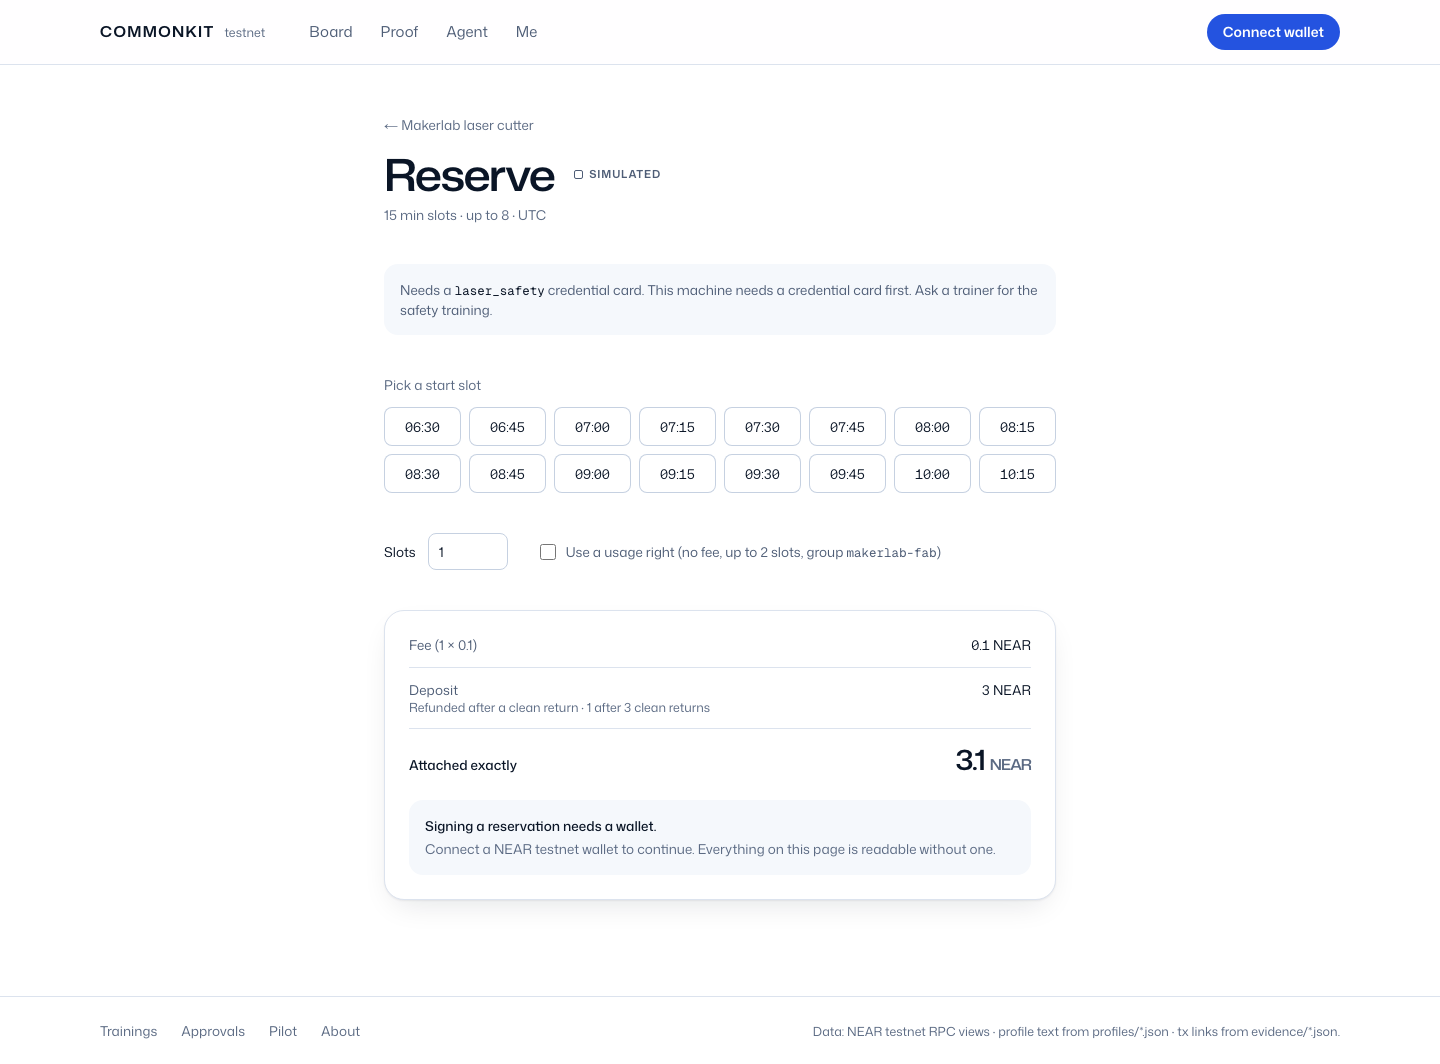
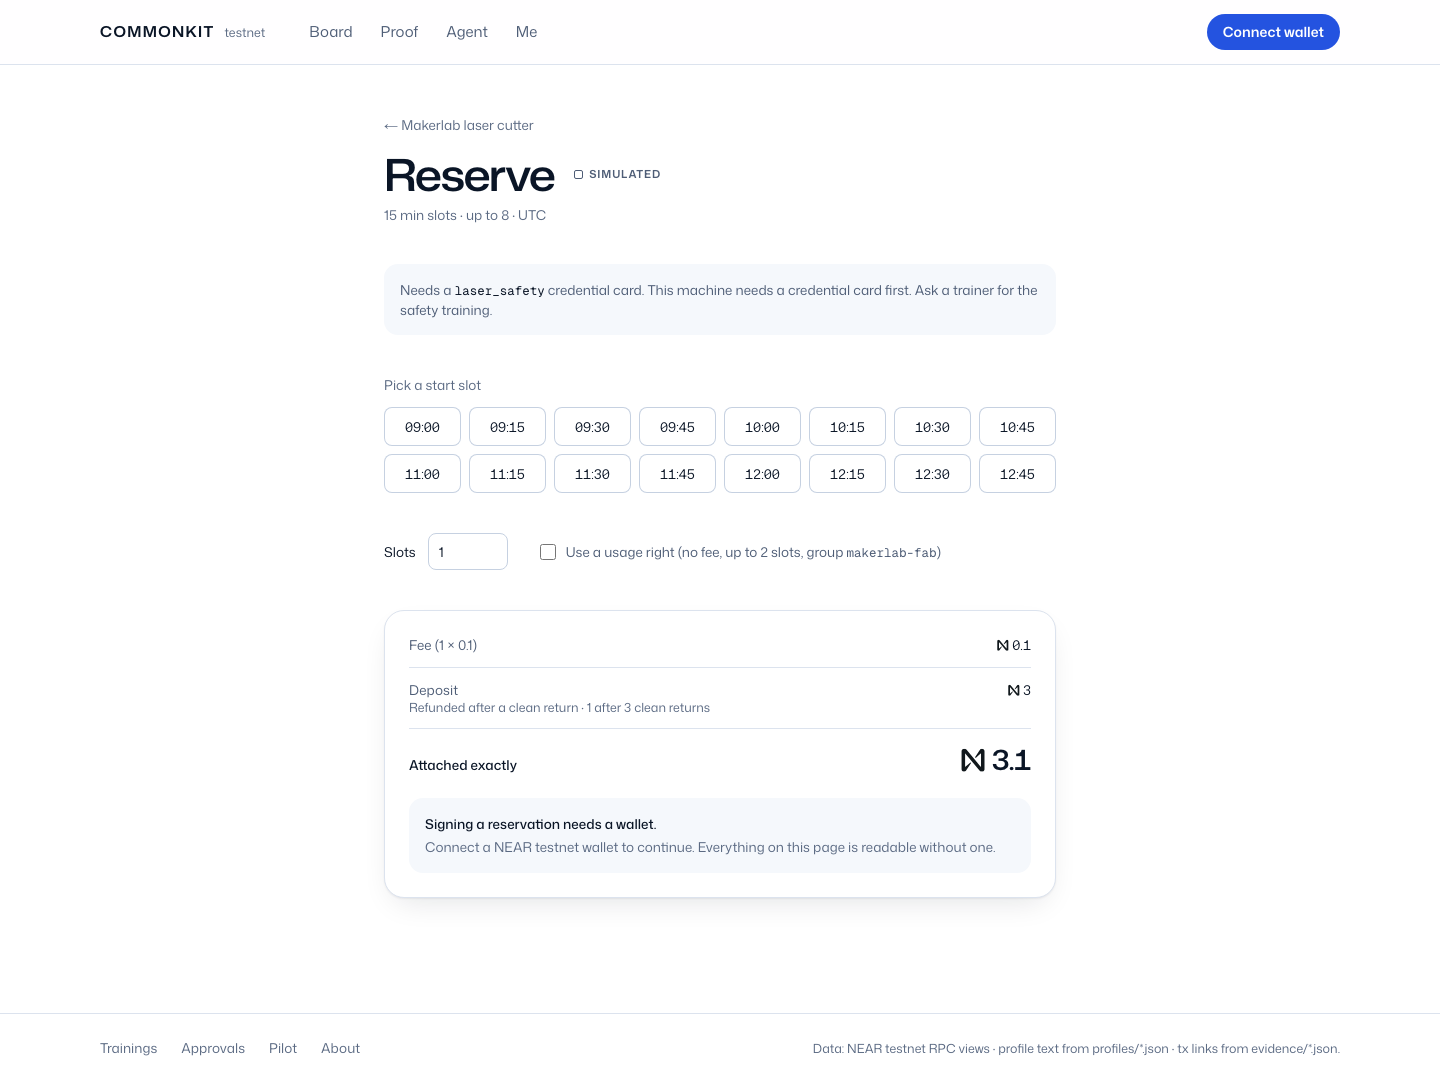
docs(web): re-shoot every route at 390 and 1440 px (NEAR mark, display names); demo-account tag spacing
Screenshots read live from NEAR testnet; board-1440 also copied to
docs/img/board-1440.png. The screenshot script waits longer for the RPC-heavy
proof page and picks the demo maintainer by display name.

diff --git a/web/src/components/TxLink.tsx b/web/src/components/TxLink.tsx
@@ -33,7 +33,7 @@ export function Account({ id, link = false, full = false, demoTag = false }: { i
   const inner = (
     <span className={name && !full ? 'font-medium' : 'font-mono text-[12px] tracking-[-0.01em]'} title={isDemoAccount(id) ? `${id} · demo account` : id}>
       {text}
-      {demoTag && name && !full && isDemoAccount(id) && <span className="text-xs font-normal text-text-3"> · demo account</span>}
+      {demoTag && name && !full && isDemoAccount(id) && <span className="ml-1.5 align-middle text-xs font-normal tracking-normal whitespace-nowrap text-text-3 [font-stretch:100%]">· demo account</span>}
     </span>
   );
   return link ? (
